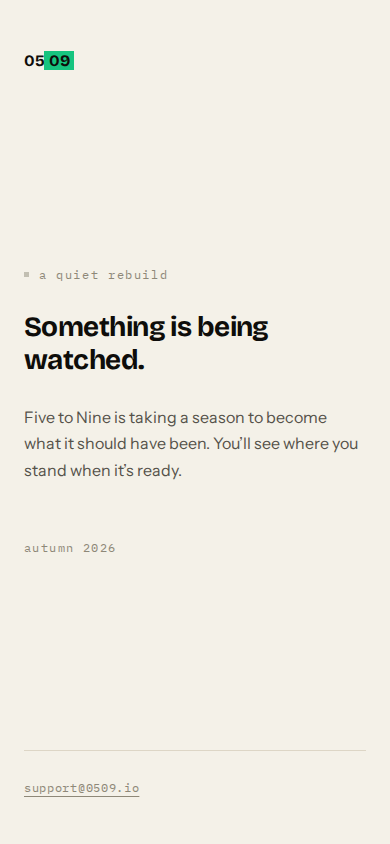
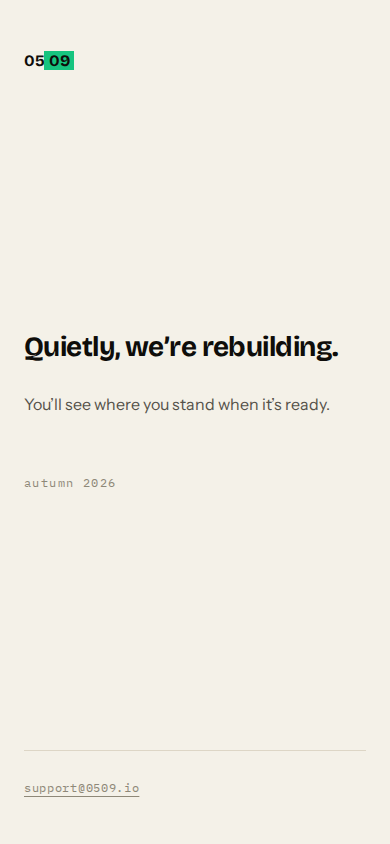
feat(landing): strip the coming-soon page to five things
Nish: 'Quietly, we're rebuilding.' and 'remove the other bs'.

Gone: the mono eyebrow, the breathing dot and its keyframes, and the 'taking a
season to become what it should have been' sentence. What is left is the
wordmark, the headline, one sentence, the date and the address — and the
wordmark's 09 is still the only colour on the page.

The page now has no animation at all, so app.css goes back to exactly what
main had before #3922.

Refs #3922

diff --git a/app/routes/landing.tsx b/app/routes/landing.tsx
@@ -11,7 +11,7 @@ export function meta(_: Route.MetaArgs) {
     {
       name: "description",
       content:
-        "Five to Nine is taking a season to become what it should have been. Back autumn 2026.",
+        "Quietly, we're rebuilding. You'll see where you stand when it's ready. Autumn 2026.",
     },
     // noindex while the public site is gated behind the redesign. This comes
     // off in the PR that removes the gate — not before, and not separately.
@@ -22,15 +22,14 @@ export function meta(_: Route.MetaArgs) {
 /**
  * The public site while the rebuild is in progress.
  *
- * Quiet on purpose. The first version of this page shouted in 5rem caps with a
- * struck "old site → new site" mark; Nish read the caps as aggressive and the
- * strike as a jab at our own work. So: sentence case at weight 600, one narrow
- * column with air around it, and the copy hints rather than declares. The only
- * colour on the page is the wordmark's 09.
+ * Five things, and nothing else: the wordmark, the headline, one sentence, the
+ * date, the address. Earlier versions carried a shouted caps headline, a struck
+ * "old site → new site" mark, a mono eyebrow and a breathing dot; Nish cut all
+ * of it. What is left is quiet on purpose, and the only colour on the page is
+ * the wordmark's 09.
  *
- * Still deliberately static — no loader, no state, no client behaviour beyond
- * the framework's own hydration. The largest paint is the headline, which is
- * text, so nothing here can push LCP past its budget.
+ * Deliberately static — no loader, no state, no client behaviour beyond the
+ * framework's own hydration, and no animation at all.
  */
 export default function Page() {
   return (
@@ -42,20 +41,11 @@ export default function Page() {
       </header>
 
       <div className="max-w-[34rem] py-20 sm:py-28">
-        <p className="text-ink-faint flex items-center gap-2.5 font-mono text-[0.72rem] font-normal tracking-[0.14em] lowercase">
-          <span
-            aria-hidden="true"
-            className="bg-ink-faint inline-block size-[5px] motion-safe:animate-[breathe_3.2s_ease-in-out_infinite]"
-          />
-          a quiet rebuild
-        </p>
-
-        <h1 className="font-display mt-7 text-[clamp(1.75rem,3.6vw,2.9rem)] leading-[1.15] font-semibold tracking-[-0.02em]">
-          Something is being watched.
+        <h1 className="font-display text-[clamp(1.75rem,3.6vw,2.9rem)] leading-[1.15] font-semibold tracking-[-0.02em]">
+          Quietly, we&rsquo;re rebuilding.
         </h1>
 
         <p className="text-ink-soft mt-7 text-[clamp(1rem,1.3vw,1.1rem)] leading-[1.65]">
-          Five to Nine is taking a season to become what it should have been.
           You&rsquo;ll see where you stand when it&rsquo;s ready.
         </p>
 

diff --git a/app/app.css b/app/app.css
@@ -78,12 +78,3 @@ body {
     transition: none !important;
   }
 }
-
-/* The one motion on the page: a 5px dot that breathes, so the page reads as
-   something running rather than something parked. Opacity only — no movement,
-   no scale (DESIGN.md §9). motion-safe: in the markup means prefers-reduced-
-   motion removes it entirely. */
-@keyframes breathe {
-  0%, 100% { opacity: 0.25; }
-  50% { opacity: 1; }
-}
